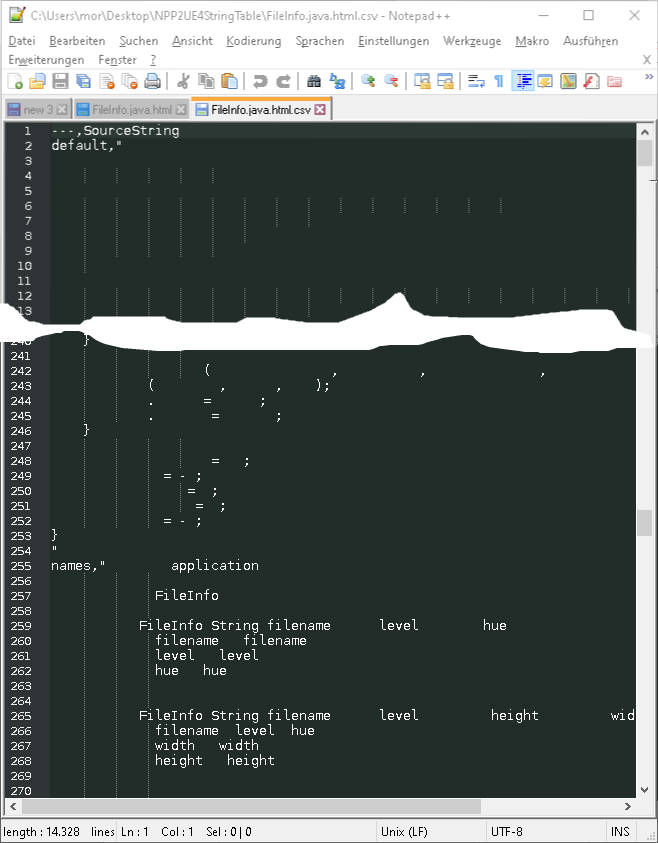
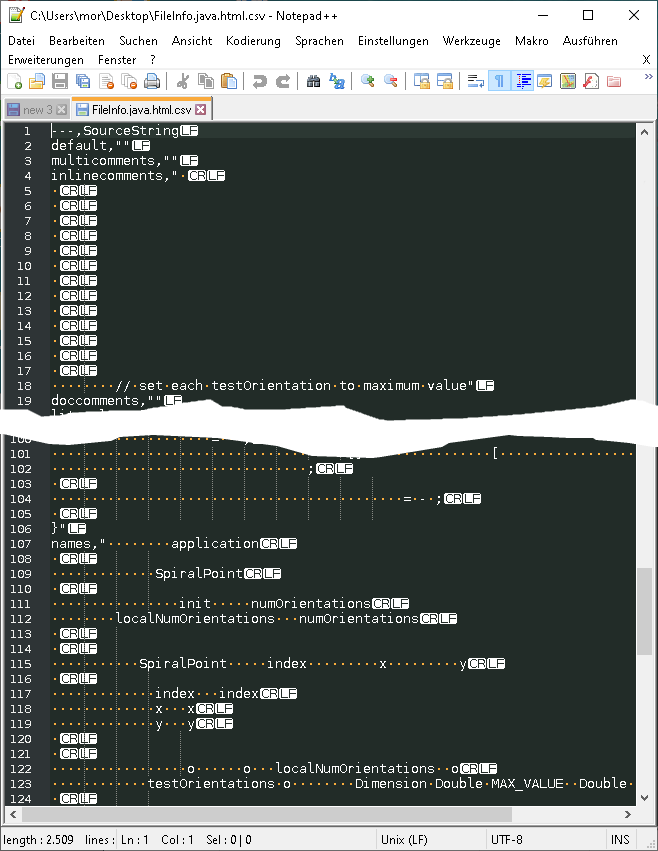
readme updated, minor change in source

diff --git a/NPPFormatingToUE4DataTable/src/application/NPP2UE4StringTableConverter.java b/NPPFormatingToUE4DataTable/src/application/NPP2UE4StringTableConverter.java
@@ -178,7 +178,7 @@ public class NPP2UE4StringTableConverter extends Application {
 		        			// insert space at position 0 in empty lines ( for UE4 Text Render Actor )
 		        			sourceString = sourceString.replaceAll("\n\r", "\n \r"); // keep attention: \n\r instead of \r\n to grab all case in one run
 		        			
-		        			// insert space at position 0 in line 1 if the sourceString starts with a newline
+		        			// insert space at position 0 in the first line if the sourceString starts with a newline
 		        			if (sourceString.length() > 0 && sourceString.charAt(0) == '\r')
 		        				sourceString = " " + sourceString;
 		        			

diff --git a/readme.md b/readme.md
@@ -1,18 +1,18 @@
-# NPP formatter to UE4 Data Table converter
+# Notepad++ formatted source code to UE4 Data Table converter
 
 This small piece of code converts a source code formatted by [Notepad++](https://notepad-plus-plus.org) (NPP) into a [UE4](https://unreal-engine.com) [Data Table](https://docs.unrealengine.com/en-US/Gameplay/DataDriven/index.html). Each each source code color will be exported into a separate data set, each sign of other colors will be replaced by a space. 
 
 ## Background
 
-Personally, I used the tool to convert Java source code to UE4 Data Tables, but with some effort it will also be possible to convert source code of other languages to Data Tables or to UE4 [String Tables](https://docs.unrealengine.com/en-US/Gameplay/Localization/StringTables/index.html) as long as you find a fitting NPP color scheme , see following sections.
+Personally, I used the tool to convert Java source code to UE4 `Data Tables`, but with some effort it will also be possible to convert source code of other languages to `Data Tables` or to UE4 [`String Tables`](https://docs.unrealengine.com/en-US/Gameplay/Localization/StringTables/index.html) as long as you find a fitting NPP color scheme , see following sections.
 
-|  Original in NPP: <br />FileInfo.java  | exported HTML: FileInfo.java.html | converted to UE4 Data Table:<br />FileInfo.java.html.csv |
-| :------------------------------------: | :-------------------------------: | :------------------------------------------------------: |
-| ![Java in NPP](images/Java-in-NPP.png) |  ![as HTML](images/as-HTML.png)   |    ![as UE4 Data Table](images/as-UE4-Data-Table.png)    |
+| Original in NPP: <br />*FileInfo.java* | exported HTML: *FileInfo.java.html* | converted to UE4 Data Table:<br />*FileInfo.java.html.csv* |
+| :------------------------------------: | :---------------------------------: | :--------------------------------------------------------: |
+| ![Java in NPP](images/Java-in-NPP.png) |   ![as HTML](images/as-HTML.png)    |     ![as UE4 Data Table](images/as-UE4-Data-Table.png)     |
 
 ## In UE4
 
-<img alt="UE4 source code layer" align="right"  src="images/UE4 Source Code.gif" width="40%">In UE4, I used CSV file with the splitted source code to display the source code with Text Render Actors in different layers. 
+<img alt="UE4 source code layer" align="right"  src="images/UE4 Source Code.gif" width="40%">In UE4, I used the CSV files containing the splitted source code to create a layered source code visualization with `Text Render Actors` in layers. 
 
 ### Font
 
@@ -38,51 +38,65 @@ My resulting level looked like shown below. For this simple demo I just copied t
 
 ## UE4 String Table
 
-The basic structure used by this conversion function is the same as used by the UE4 String Table Asset. String Table Assets wont be neither imported nor updated automatically, so it could be a little bit annoying depending what you want to use the CSV files for and how many CSV files you have to handle. You have to create a String Table Asset in the editor and import the data by hand using the provided _import from csv_ button. 
+The basic structure used by this conversion function is the same as used by the [UE4 String Table Asset](https://docs.unrealengine.com/en-US/Gameplay/Localization/StringTables/index.html). `String Table` assets won't neither be imported nor updated automatically, so it could be a little bit annoying depending what you want to use the CSV files for and how many CSV files you have to import. You have to create a `String Table` asset in the editor and import the data by hand using the provided _import from csv_ button. 
 
-Interestingly the import functions for String Tables and Data Tables seems to work a little bit different: 
+Interestingly the import functions for `String Tables` and `Data Tables` seems to work a little bit different: 
 
-* For String Tables, the first column has to be named Key. For Data Tables, the name of the first column is not in defined--the first column will be used as key column. You can simply switch the comments of the following lines:
+* For `String Tables`, the first column has to be named Key. For `Data Tables`, the name of the first column is not in defined--the first column will be used as key column. You can simply switch the comments of the following lines:
 
   ```Java
   writer.write("---,SourceString\n");
   // writer.write("Key,SourceString\n"); // for String Table export
   ```
 
-* There are differences in interpreting special characters and quotation marks. In the _NPPFormatingToUE4DataTable_ program you can activate the conversion to String Table format by switching the comments of the following lines:			       				
+* There are differences in interpreting special characters and quotation marks. In the _NPPFormatingToUE4DataTable_ program you can activate the conversion to `String Table` format by switching the comments of the following lines:			       				
 
   ```java
   //	// UE4 String Table Format
   //	// replacements to fit UE4 format
-  //	theText = theText.replace("\", "\\"); // \ -> \
-  //	theText = theText.replaceAll("\r\n|\r|\n", "\\r\\n"); //"\r\n"); // \n ->\r\n
-  //	theText = theText.replace(""", "\"""); // " -> ""			
-  //	theText = theText.replace("'", "\'"); // ' -> '
-  
+  //	theText = theText.replace("\\", "\\\\"); // \ -> \\
+  //	theText = theText.replaceAll("\\r\\n|\\r|\\n", "\\\\r\\\\n"); //"\\r\\n"); // \n ->\r\n
+  //	theText = theText.replace("\"", "\\\"\""); // " -> \""			
+  //	theText = theText.replace("'", "\\'"); // ' -> \'	
+  		        				
   // UE4 Data Table Format
   // replacements to fit UE4 format
-  theText = theText.replaceAll("\\r\\n|\\r|\\n", "\r\n"); // \n ->\r\n  					
-  theText = theText.replace("\"", "\"\""); // " -> ""								
+  theText = theText.replaceAll("\\r\\n|\\r|\\n", "\r\n"); // \n ->\r\n 
+  theText = theText.replace("\"", "\"\""); //   replace quotation marks:  " -> ""								
+  						
   ```
 
-* The Key value has to be quoted for String Tables, so just switch the comment signs of the following lines:
+* The values of the key column have to be quoted for `String Tables`, so just switch the comment signs of the following lines:
 
   ```java
   output += color2Type[sourceColorization].replace(" ", "");			
   //output += "\"" + color2Type[sourceColorization].replace(" ", "") + "\""; // for UE4 String Table
   ```
 
-* It seems to be important to always have at least one character in each line, otherwise under some conditions the text will be displayed larger than necessary (tested with UE4.22 and __ScaleX_ and _ScaleY_ scaled Text Render Actors). Currently, the contents of the output is not optimized: Each unnecessary sign is simply replaced by a space. Because the Text Render draw every sign as a static mesh, spaces are also drawn. So the current version it is a little bit consuming.
+* It seems to be important to always have at least one character in each line, otherwise under some conditions the text will be displayed larger than necessary (tested with UE4.22 and _ScaleX_ and _ScaleY_ scaled `Text Render Actors`). For that the output will be optimized so that both empty lines at the end and sequences of spaces and tabs at the end of each line will be removed:
 
-##Colors
+  ```Java
+  // replace space and tab before \r\n
+  sourceString = sourceString.replaceAll("[ \t]+(\r\n)", "$1");
+  	        			
+  // remove sequences of \r\n before end of text
+  sourceString = sourceString.replaceAll("[\r\n]+$", "");
+  	        				        		   		
+  // insert space at position 0 in empty lines ( for UE4 Text Render Actor )
+  sourceString = sourceString.replaceAll("\n\r", "\n \r"); // keep attention: \n\r instead of \r\n to grab all case in one run
+  	        			
+  // insert space at position 0 in the first line if the sourceString starts with a newline
+  if (sourceString.length() > 0 && sourceString.charAt(0) == '\r')
+  		sourceString = " " + sourceString;
+  ```
 
 ### Missing colors
 
-Depending on your source code some colors are missing in the output (for instance, the sample class don't use comments, so the data sets for comments will be finally empty. ) 
+Depending on your source code some colors may be missing in the output (for instance, the sample class don't use comments, so the data sets for comments will be finally empty. ) 
 
 ### Names of colorization
 
-I not sure, if I found all color classes and named them right. Especially if you work with source codes of different programming languages than Java the naming of the colors might be wrong. You can easy fix it by rework the list of color classes: 
+I not sure, if I found all color classes and named them right. Especially if you work with source codes of different programming languages than Java the naming of the colors might be wrong. You can easy fix it by rework the list of color classes. I spend not much time in this list. 
 
 ```Java
 final static String color2Type[] = new String[] {
@@ -101,6 +115,6 @@ final static String color2Type[] = new String[] {
 
 ## Alternatives
 
-* Alternative to displaying one Text Render per color, it might be possible to create a Material flexible enough to display different colors depending on the location in 3D space. 
-* Using UMG is another alternative. The new [UMG Rich Text Block](https://docs.unrealengine.com/en-US/Engine/UMG/UserGuide/UMGRichTextBlock/index.html) makes it possible to display styled text in a text area. I tested this solution, for me it was to slow (I had to display hundreds of source codes).
-* Changing the Text Render Actor may be another possibility...
+* Alternative to displaying one `Text Render Actor` per color, it might be possible to create a material flexible enough to display different colors depending on the location of each letter in 3D space. That way, it might be sufficient to use only one `Text Render Actor`.
+* Using `UMG` is another alternative. The new [UMG Rich Text Block](https://docs.unrealengine.com/en-US/Engine/UMG/UserGuide/UMGRichTextBlock/index.html) makes it possible to display styled text in a text area. I tested this attractive way, for me it was to slow (I had to display hundreds of source codes).
+* Changing the `Text Render Actor` itself may be another possibility...
